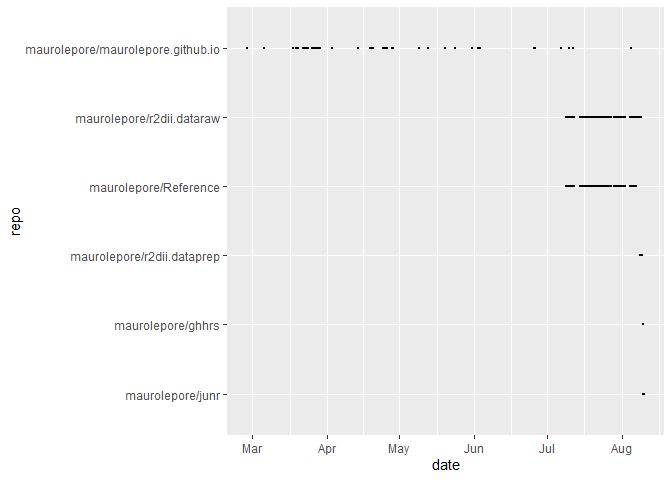
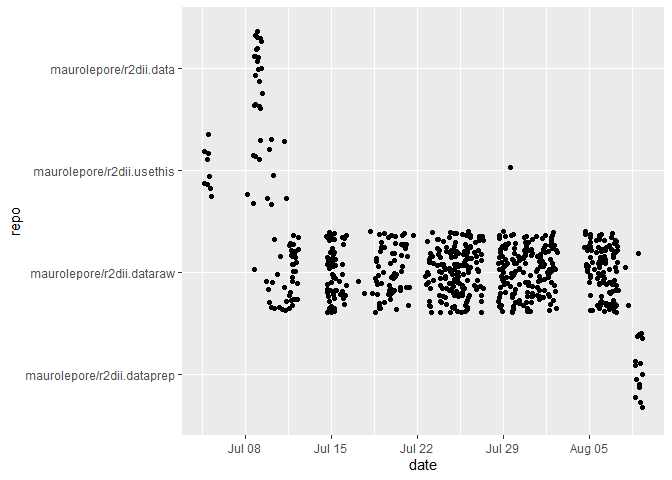
Polish my work on r2dii packages.

diff --git a/README.md b/README.md
@@ -1,9 +1,12 @@
 
 <!-- README.md is generated from README.Rmd. Please edit that file -->
 
-# ghhrs
+# My work on r2dii packages
 
-Based on <https://rpubs.com/hadley/gh>.
+Adapted from <https://rpubs.com/hadley/gh>.
+
+On July 1, 2019 I started working on an ecosystem of R packages named
+“r2dii”. Here I explore my work so far.
 
 ``` r
 library(gh)
@@ -25,11 +28,16 @@ library(lubridate)
 #> The following object is masked from 'package:base':
 #> 
 #>     date
+library(ggplot2)
+library(forcats)
 ```
+
+I start by getting a list of the 50 repos that I’ve touched most
+recently.
 
 ``` r
 my_repos <- function(type = c("all", "owner", "public", "private", "member"), 
-                     limit = 10) {
+                     limit = 50) {
   type <- match.arg(type)
   
   gh(
@@ -39,24 +47,44 @@ my_repos <- function(type = c("all", "owner", "public", "private", "member"),
     .limit = limit
   )
 }
-repos <- my_repos("owner", limit = 10)
+repos <- my_repos("owner", limit = 50)
 length(repos)
-#> [1] 10
+#> [1] 50
 
 full_name <- repos %>% map_chr("full_name")
 head(full_name, 20)
-#>  [1] "maurolepore/r2dii.dataprep"       
-#>  [2] "maurolepore/r2dii.dataraw"        
-#>  [3] "maurolepore/ghhrs"                
-#>  [4] "maurolepore/junr"                 
-#>  [5] "maurolepore/DCC"                  
-#>  [6] "maurolepore/drake"                
-#>  [7] "maurolepore/drake-manual"         
-#>  [8] "maurolepore/Reference"            
+#>  [1] "maurolepore/r2dii.data"           
+#>  [2] "maurolepore/r2dii.dataprep"       
+#>  [3] "maurolepore/r2dii.dataraw"        
+#>  [4] "maurolepore/ghhrs"                
+#>  [5] "maurolepore/junr"                 
+#>  [6] "maurolepore/DCC"                  
+#>  [7] "maurolepore/drake"                
+#>  [8] "maurolepore/drake-manual"         
 #>  [9] "maurolepore/covr"                 
 #> [10] "maurolepore/maurolepore.github.io"
+#> [11] "maurolepore/todo"                 
+#> [12] "maurolepore/r2dii.usethis"        
+#> [13] "maurolepore/meetings"             
+#> [14] "maurolepore/cv"                   
+#> [15] "maurolepore/flagr"                
+#> [16] "maurolepore/GitHistoryTracker"    
+#> [17] "maurolepore/ghactions"            
+#> [18] "maurolepore/github-demo"          
+#> [19] "maurolepore/compareWith"          
+#> [20] "maurolepore/praise"
+```
 
-repo_commits <- function(full_name, since = "2019-01-01") {
+(If you’re doing this yourself, you’ll need to make sure you’ve set up
+an environment variable GITHUB\_PAT with a GitHub personal access
+token.)
+
+And then, for each repo, I get all the commits since 2019-07-01, around
+the time I became a full time software developer. I collaborate with
+other people, so I make sure to extract the author of the commit.
+
+``` r
+repo_commits <- function(full_name, since = "2019-07-01") {
   message("Requesting commits for ", full_name)
   
   commits <- gh("GET /repos/:full_name/commits", 
@@ -77,6 +105,7 @@ repo_commits <- function(full_name, since = "2019-01-01") {
 }
 
 commits <- full_name %>% map(repo_commits) %>% compact() %>% bind_rows()
+#> Requesting commits for maurolepore/r2dii.data
 #> Requesting commits for maurolepore/r2dii.dataprep
 #> Requesting commits for maurolepore/r2dii.dataraw
 #> Requesting commits for maurolepore/ghhrs
@@ -84,109 +113,163 @@ commits <- full_name %>% map(repo_commits) %>% compact() %>% bind_rows()
 #> Requesting commits for maurolepore/DCC
 #> Requesting commits for maurolepore/drake
 #> Requesting commits for maurolepore/drake-manual
-#> Requesting commits for maurolepore/Reference
 #> Requesting commits for maurolepore/covr
 #> Requesting commits for maurolepore/maurolepore.github.io
+#> Requesting commits for maurolepore/todo
+#> Requesting commits for maurolepore/r2dii.usethis
+#> Requesting commits for maurolepore/meetings
+#> Requesting commits for maurolepore/cv
+#> Requesting commits for maurolepore/flagr
+#> Requesting commits for maurolepore/GitHistoryTracker
+#> Requesting commits for maurolepore/ghactions
+#> Requesting commits for maurolepore/github-demo
+#> Requesting commits for maurolepore/compareWith
+#> Requesting commits for maurolepore/praise
+#> Requesting commits for maurolepore/a-repo
+#> Requesting commits for maurolepore/rocker
+#> Requesting commits for maurolepore/meetups
+#> Requesting commits for maurolepore/gh4projects
+#> Requesting commits for maurolepore/what-they-forgot
+#> Requesting commits for maurolepore/confs
+#> Requesting commits for maurolepore/pkgdoc
+#> Requesting commits for maurolepore/fs
+#> Requesting commits for maurolepore/gitignore
+#> Requesting commits for maurolepore/fgeo.install
+#> Requesting commits for maurolepore/drat
+#> Requesting commits for maurolepore/tor
+#> Requesting commits for maurolepore/rodev
+#> Requesting commits for maurolepore/project
+#> Requesting commits for maurolepore/fgeo.krig
+#> Requesting commits for maurolepore/fgeo.misc
+#> Requesting commits for maurolepore/fgeo
+#> Requesting commits for maurolepore/dotfiles
+#> Requesting commits for maurolepore/temp.gh
+#> Requesting commits for maurolepore/fgeo.plot
+#> Requesting commits for maurolepore/git-comun
+#> Requesting commits for maurolepore/slack
+#> Requesting commits for maurolepore/testthat
+#> Requesting commits for maurolepore/commit
+#> Requesting commits for maurolepore/quienes-somos
+#> Requesting commits for maurolepore/un-repositorio
+#> Requesting commits for maurolepore/revdepcheck
+#> Requesting commits for maurolepore/gmailr
+#> Requesting commits for maurolepore/dev_guide
+#> Requesting commits for maurolepore/ixplorer
 commits
-#> # A tibble: 4,011 x 3
-#>    full_name                  author      datetime            
-#>    <chr>                      <chr>       <chr>               
-#>  1 maurolepore/r2dii.dataprep maurolepore 2019-08-10T00:03:35Z
-#>  2 maurolepore/r2dii.dataprep maurolepore 2019-08-09T23:49:37Z
-#>  3 maurolepore/r2dii.dataprep maurolepore 2019-08-09T23:43:52Z
-#>  4 maurolepore/r2dii.dataprep maurolepore 2019-08-09T22:34:35Z
-#>  5 maurolepore/r2dii.dataprep maurolepore 2019-08-09T22:12:39Z
-#>  6 maurolepore/r2dii.dataprep maurolepore 2019-08-09T20:33:47Z
-#>  7 maurolepore/r2dii.dataprep maurolepore 2019-08-09T20:26:50Z
-#>  8 maurolepore/r2dii.dataprep maurolepore 2019-08-09T20:26:38Z
-#>  9 maurolepore/r2dii.dataprep maurolepore 2019-08-09T20:13:27Z
-#> 10 maurolepore/r2dii.dataprep maurolepore 2019-08-09T18:23:10Z
-#> # ... with 4,001 more rows
+#> # A tibble: 1,225 x 3
+#>    full_name              author      datetime            
+#>    <chr>                  <chr>       <chr>               
+#>  1 maurolepore/r2dii.data maurolepore 2019-07-09T12:26:56Z
+#>  2 maurolepore/r2dii.data maurolepore 2019-07-09T09:43:11Z
+#>  3 maurolepore/r2dii.data maurolepore 2019-07-09T09:23:20Z
+#>  4 maurolepore/r2dii.data maurolepore 2019-07-09T09:18:51Z
+#>  5 maurolepore/r2dii.data maurolepore 2019-07-09T08:27:11Z
+#>  6 maurolepore/r2dii.data maurolepore 2019-07-09T08:27:23Z
+#>  7 maurolepore/r2dii.data maurolepore 2019-07-09T08:10:32Z
+#>  8 maurolepore/r2dii.data maurolepore 2019-07-09T08:26:37Z
+#>  9 maurolepore/r2dii.data maurolepore 2019-07-09T08:50:16Z
+#> 10 maurolepore/r2dii.data maurolepore 2019-07-09T08:23:20Z
+#> # ... with 1,215 more rows
 ```
+
+Next, I parse the commit date, and set my timezone. I break the datetime
+into separate date and time pieces as that will make plotting easier
+later on.
 
 ``` r
 commits <- commits %>% mutate(
   datetime = lubridate::with_tz(readr::parse_datetime(datetime), "America/Chicago"),
   date = floor_date(datetime, "day"),
-  time = update(datetime, yday = 1)
+  time = update(datetime, yday = lubridate::yday("2019-08-01"))
 )
 #> Warning in (function (object, years = integer(), months = integer(), days =
 #> integer(), : partial argument match of 'yday' to 'ydays'
 commits
-#> # A tibble: 4,011 x 5
+#> # A tibble: 1,225 x 5
 #>    full_name author datetime            date               
 #>    <chr>     <chr>  <dttm>              <dttm>             
-#>  1 maurolep~ mauro~ 2019-08-09 19:03:35 2019-08-09 00:00:00
-#>  2 maurolep~ mauro~ 2019-08-09 18:49:37 2019-08-09 00:00:00
-#>  3 maurolep~ mauro~ 2019-08-09 18:43:52 2019-08-09 00:00:00
-#>  4 maurolep~ mauro~ 2019-08-09 17:34:35 2019-08-09 00:00:00
-#>  5 maurolep~ mauro~ 2019-08-09 17:12:39 2019-08-09 00:00:00
-#>  6 maurolep~ mauro~ 2019-08-09 15:33:47 2019-08-09 00:00:00
-#>  7 maurolep~ mauro~ 2019-08-09 15:26:50 2019-08-09 00:00:00
-#>  8 maurolep~ mauro~ 2019-08-09 15:26:38 2019-08-09 00:00:00
-#>  9 maurolep~ mauro~ 2019-08-09 15:13:27 2019-08-09 00:00:00
-#> 10 maurolep~ mauro~ 2019-08-09 13:23:10 2019-08-09 00:00:00
-#> # ... with 4,001 more rows, and 1 more variable: time <dttm>
+#>  1 maurolep~ mauro~ 2019-07-09 07:26:56 2019-07-09 00:00:00
+#>  2 maurolep~ mauro~ 2019-07-09 04:43:11 2019-07-09 00:00:00
+#>  3 maurolep~ mauro~ 2019-07-09 04:23:20 2019-07-09 00:00:00
+#>  4 maurolep~ mauro~ 2019-07-09 04:18:51 2019-07-09 00:00:00
+#>  5 maurolep~ mauro~ 2019-07-09 03:27:11 2019-07-09 00:00:00
+#>  6 maurolep~ mauro~ 2019-07-09 03:27:23 2019-07-09 00:00:00
+#>  7 maurolep~ mauro~ 2019-07-09 03:10:32 2019-07-09 00:00:00
+#>  8 maurolep~ mauro~ 2019-07-09 03:26:37 2019-07-09 00:00:00
+#>  9 maurolep~ mauro~ 2019-07-09 03:50:16 2019-07-09 00:00:00
+#> 10 maurolep~ mauro~ 2019-07-09 03:23:20 2019-07-09 00:00:00
+#> # ... with 1,215 more rows, and 1 more variable: time <dttm>
 ```
+
+Next, I do a couple of quick checks to make sure the data looks
+reasonable.
 
 ``` r
 commits %>% count(full_name, sort = TRUE) %>% print(n = 20)
-#> # A tibble: 10 x 2
+#> # A tibble: 50 x 2
 #>    full_name                             n
 #>    <chr>                             <int>
-#>  1 maurolepore/drake                  1582
-#>  2 maurolepore/r2dii.dataraw          1021
-#>  3 maurolepore/Reference               984
-#>  4 maurolepore/drake-manual            245
-#>  5 maurolepore/maurolepore.github.io    71
-#>  6 maurolepore/DCC                      37
-#>  7 maurolepore/covr                     31
-#>  8 maurolepore/junr                     25
-#>  9 maurolepore/r2dii.dataprep           14
-#> 10 maurolepore/ghhrs                     1
+#>  1 maurolepore/r2dii.dataraw           661
+#>  2 maurolepore/drake                   263
+#>  3 maurolepore/ghactions                38
+#>  4 maurolepore/DCC                      33
+#>  5 maurolepore/drake-manual             31
+#>  6 maurolepore/github-demo              28
+#>  7 maurolepore/r2dii.usethis            25
+#>  8 maurolepore/covr                     23
+#>  9 maurolepore/junr                     20
+#> 10 maurolepore/r2dii.data               20
+#> 11 maurolepore/meetings                 17
+#> 12 maurolepore/r2dii.dataprep           14
+#> 13 maurolepore/maurolepore.github.io     5
+#> 14 maurolepore/todo                      5
+#> 15 maurolepore/compareWith               4
+#> 16 maurolepore/flagr                     3
+#> 17 maurolepore/cv                        2
+#> 18 maurolepore/a-repo                    1
+#> 19 maurolepore/commit                    1
+#> 20 maurolepore/confs                     1
+#> # ... with 30 more rows
 
 commits %>% count(author, sort = TRUE)
-#> # A tibble: 33 x 2
+#> # A tibble: 22 x 2
 #>    author            n
 #>    <chr>         <int>
-#>  1 maurolepore    1324
-#>  2 wlandau        1078
-#>  3 wlandau-lilly   626
-#>  4 2diiKlaus       278
-#>  5 Clare2D         278
-#>  6 blumoestit      196
-#>  7 bpbond           50
-#>  8 MilesMcBain      30
-#>  9 ronnyhdez        28
-#> 10 jimhester        25
-#> # ... with 23 more rows
+#>  1 maurolepore     767
+#>  2 wlandau-lilly   157
+#>  3 wlandau         130
+#>  4 maxheld83        38
+#>  5 ronnyhdez        27
+#>  6 <NA>             26
+#>  7 jimhester        21
+#>  8 2diiKlaus        17
+#>  9 Clare2D          16
+#> 10 ecamo19           5
+#> # ... with 12 more rows
 ```
 
-``` r
-library(ggplot2)
-library(forcats)  # devtools::install_github("hadley/forcats")
-library(ggbeeswarm) # devtools::install_github("eclarke/ggbeeswarm")
-```
+Now I pull out just the commits that I made, and only for repositories
+matching “r2dii”.
 
 ``` r
 mauro <- commits %>% 
-  filter(author == "maurolepore")
+  filter(author == "maurolepore", grepl("r2dii", full_name))
 
 mauro
-#> # A tibble: 1,324 x 5
+#> # A tibble: 685 x 5
 #>    full_name author datetime            date               
 #>    <chr>     <chr>  <dttm>              <dttm>             
-#>  1 maurolep~ mauro~ 2019-08-09 19:03:35 2019-08-09 00:00:00
-#>  2 maurolep~ mauro~ 2019-08-09 18:49:37 2019-08-09 00:00:00
-#>  3 maurolep~ mauro~ 2019-08-09 18:43:52 2019-08-09 00:00:00
-#>  4 maurolep~ mauro~ 2019-08-09 17:34:35 2019-08-09 00:00:00
-#>  5 maurolep~ mauro~ 2019-08-09 17:12:39 2019-08-09 00:00:00
-#>  6 maurolep~ mauro~ 2019-08-09 15:33:47 2019-08-09 00:00:00
-#>  7 maurolep~ mauro~ 2019-08-09 15:26:50 2019-08-09 00:00:00
-#>  8 maurolep~ mauro~ 2019-08-09 15:26:38 2019-08-09 00:00:00
-#>  9 maurolep~ mauro~ 2019-08-09 15:13:27 2019-08-09 00:00:00
-#> 10 maurolep~ mauro~ 2019-08-09 13:23:10 2019-08-09 00:00:00
-#> # ... with 1,314 more rows, and 1 more variable: time <dttm>
+#>  1 maurolep~ mauro~ 2019-07-09 07:26:56 2019-07-09 00:00:00
+#>  2 maurolep~ mauro~ 2019-07-09 04:43:11 2019-07-09 00:00:00
+#>  3 maurolep~ mauro~ 2019-07-09 04:23:20 2019-07-09 00:00:00
+#>  4 maurolep~ mauro~ 2019-07-09 04:18:51 2019-07-09 00:00:00
+#>  5 maurolep~ mauro~ 2019-07-09 03:27:11 2019-07-09 00:00:00
+#>  6 maurolep~ mauro~ 2019-07-09 03:27:23 2019-07-09 00:00:00
+#>  7 maurolep~ mauro~ 2019-07-09 03:10:32 2019-07-09 00:00:00
+#>  8 maurolep~ mauro~ 2019-07-09 03:26:37 2019-07-09 00:00:00
+#>  9 maurolep~ mauro~ 2019-07-09 03:50:16 2019-07-09 00:00:00
+#> 10 maurolep~ mauro~ 2019-07-09 03:23:20 2019-07-09 00:00:00
+#> # ... with 675 more rows, and 1 more variable: time <dttm>
 ```
 
 To start, lets figure out what I’ve been working on. I’ll just look at
@@ -196,14 +279,9 @@ the top 25 repos.
 mauro %>% 
   mutate(repo = full_name %>% fct_reorder(date) %>% fct_rev() %>% fct_lump(25)) %>% 
   ggplot(aes(date, repo)) + 
-  geom_quasirandom(size = 0.5)
+  geom_jitter()
 #> Warning in rank(-count, ties = ties.method): partial argument match of
 #> 'ties' to 'ties.method'
-#> Warning in f(...): The default behavior of beeswarm has changed in version
-#> 0.6.0. In versions <0.6.0, this plot would have been dodged on the y-
-#> axis. In versions >=0.6.0, groupOnX=FALSE must be explicitly set to group
-#> on y-axis. Please set groupOnX=TRUE/FALSE to avoid this warning and ensure
-#> proper axis choice.
 ```
 
 ![](README_files/figure-gfm/unnamed-chunk-8-1.png)<!-- -->
@@ -213,25 +291,19 @@ What times of day do I usually work on things?
 ``` r
 mauro %>% 
   ggplot(aes(date, time)) + 
-  geom_quasirandom()
+  geom_jitter()
 ```
 
 ![](README_files/figure-gfm/unnamed-chunk-9-1.png)<!-- -->
 
 Finally, we can look at my average work week by breaking down by day of
-week, and focussing on my usual working hours.
+week.
 
 ``` r
 mauro %>% 
   mutate(wday = wday(date, label = TRUE) %>% fct_shift(1) %>% fct_rev()) %>% 
-  # filter(hour(time) >= 6, hour(time) <= 18) %>% 
   ggplot(aes(time, wday)) + 
-  geom_quasirandom() 
-#> Warning in f(...): The default behavior of beeswarm has changed in version
-#> 0.6.0. In versions <0.6.0, this plot would have been dodged on the y-
-#> axis. In versions >=0.6.0, groupOnX=FALSE must be explicitly set to group
-#> on y-axis. Please set groupOnX=TRUE/FALSE to avoid this warning and ensure
-#> proper axis choice.
+  geom_jitter()
 ```
 
 ![](README_files/figure-gfm/unnamed-chunk-10-1.png)<!-- -->
